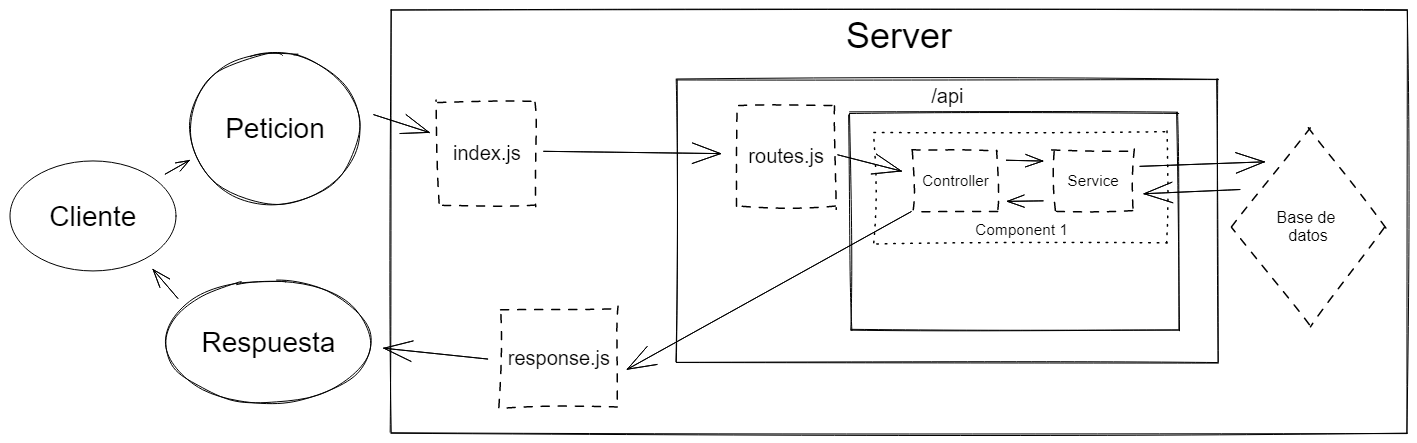
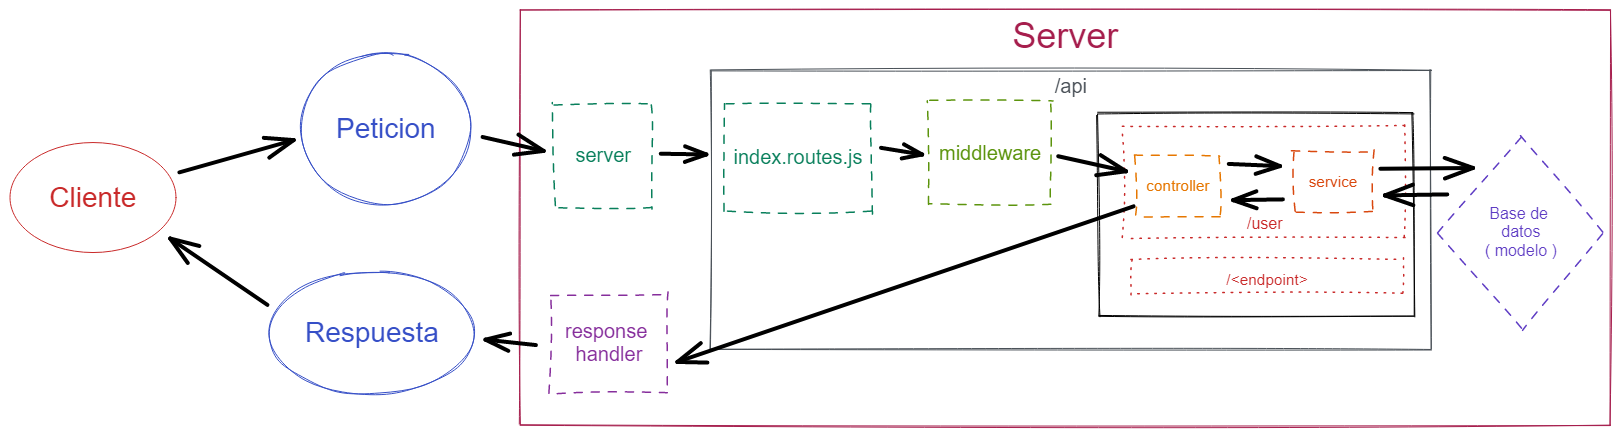
Se actualiza la arquitectura del backend y se agrega un nuevo modulo de requerimientos a codigo

diff --git a/Node/Backend/Arquitectura.md b/Node/Backend/Arquitectura.md
@@ -1,31 +1,44 @@
-## Arquitectura de nuestra aplicación
+## Arquitectura de nuestra aplicación ( basada en el template del proyecto )
 
-- En esta sección vamos a ver como organizar nuestra aplicación para que sea escalable y mantenible.
-- Estructura de carpeta recomendada:
-  - `/nombreProyecto`
-    - `/src`
-      - `/api`
-        - `/controllers`
-        - `/middlewares`
-        - `/routes`
-          - `router.js`
-      - `/services`
-        - `/db`
-            - `/models`
-      - `/utils`
-        - `responseHandler.js`
-      - `/config`
-        - `/env`
-          - `.env`
-          - `configEnv.js`
-        - `/db`
-          - `configDB.js`
-      - `server.js`
-    - `.gitignore`
-    - `package.json`
-    - `README.md`
+### Estructura de carpetas
 
-<br>
+```bash
+
+├── NombreProyecto
+│   ├── node_modules
+│   ├── src
+│   │   ├── config
+│   │   │   ├── .env
+│   │   │   ├── initialSetup.js
+│   │   │   ├── configDB.js
+│   │   │   └── configEnv.js
+│   │   ├── controllers
+│   │   │   ├── auth.controller.js
+│   │   │   └── user.controller.js
+│   │   ├── middlewares
+│   │   │   ├── autho.middleware.js
+│   │   │   └── authe.middleware.js
+│   │   ├── models
+│   │   │   ├── auth.model.js
+│   │   │   └── user.model.js
+│   │   ├── routes
+│   │   │   ├── auth.route.js
+│   │   │   ├── user.route.js
+│   │   │   └── index.routes.js
+│   │   ├── services
+│   │   │   ├── auth.service.js
+│   │   │   └── user.service.js
+│   │   ├── schemas
+│   │   │   └── user.schema.js    
+│   │   ├── utils
+│   │   │   ├── resHandler.js
+│   │   │   └── errorHandler.js
+│   │   └── server.js
+│   ├── .eslintrc.json
+│   ├── .prettierrc.json
+│   ├── .gitignore
+└── └── package.json
+```
 
 ## Arquitectura de la aplicación:
 

diff --git a/Implementacion/Backend/Backend.md b/Implementacion/Backend/Backend.md
@@ -1,0 +1,22 @@
+## De requerimientos a código backend
+
+En nuestro contexto de proyecto la construccion del backend es primero. Considerando esto:
+
+1. **`Identificacion de requisitos funcionales`**.
+    - Se realizan las entrevistas con los Product Owners.
+    - Se identifican los requisitos funcionales.
+    - Se discuten las posibles soluciones.
+    - Se retroalimenta con los Product Owners.
+    - Se escogen las posibles soluciones.
+    - _`TIP`_: Recuerden otorgar valor con sus requisitos funcionales.
+      - Sus requisitos funcionales deben ser entendibles por cualquier persona.
+      - Sus requisitos funcionales deben responder a la pregunta: **Como** usuario **quiero** poder hacer algo **para** poder obtener algo.
+      - Ejemplo: "_**Como** usuario **quiero** poder ver los productos que mas se venden **para** poder comprarlos._"
+    ### *Las operaciones CRUD, para este proyecto y contexto no son requisitos funcionales.*
+2. **`Modelando el problema.`**
+   - Se identifican los 
+3. 
+
+
+____
+- [Volver atras](../ReqToCode.md)

diff --git a/Node/Backend/ServidorHttp.md b/Node/Backend/ServidorHttp.md
@@ -496,14 +496,6 @@ app.listen(PORT, () => {
   ```
 - Realizamos una peticion `GET` a la ruta `http://localhost:3000/api/usuarios` y deberíamos ver un array con el usuario que acabamos de crear.
 
-# TAREA
-
-- Crear el controlador de tareas con los siguientes métodos:
-  - getTareas: Obtiene todas las tareas de la base de datos.
-  - createTarea: Crea una nueva tarea en la base de datos.
-- Crear las rutas para las tareas.
-- Agregar las rutas de tareas al enrutador principal.
-
 ## [Codigo fuente de la clase](../../EjerciciosAyudantia/api-rest-ejemplo)
 
 ----------------

diff --git a/README.md b/README.md
@@ -31,6 +31,7 @@ _Repositorio de las clases de ayudantia en la universidad_
     - [Manejo de Asincronia](./Node/Asincronia/Asincronia.md)
     - Manejo de errores
 - [Backend con Node](./Node/Backend/Backend.md)
+- [Desde requisitos a código](./Node/Requisitos/Requisitos.md)
 </details>
 
 ## [Glosario de palabras](./Glosario/Glosario.md)

diff --git a/Implementacion/ReqToCode.md b/Implementacion/ReqToCode.md
@@ -1,0 +1,7 @@
+## De requerimientos a código
+
+- [De requerimientos a backend](./Backend/Backend.md)
+- [De requerimientos a frontend](./Frontend/Frontend.md)
+
+_____
+- [Volver al inicio](../README.md)

diff --git a/Implementacion/Frontend/Frontend.md b/Implementacion/Frontend/Frontend.md
@@ -1,0 +1,3 @@
+___
+
+- [Volver atras](../ReqToCode.md)
